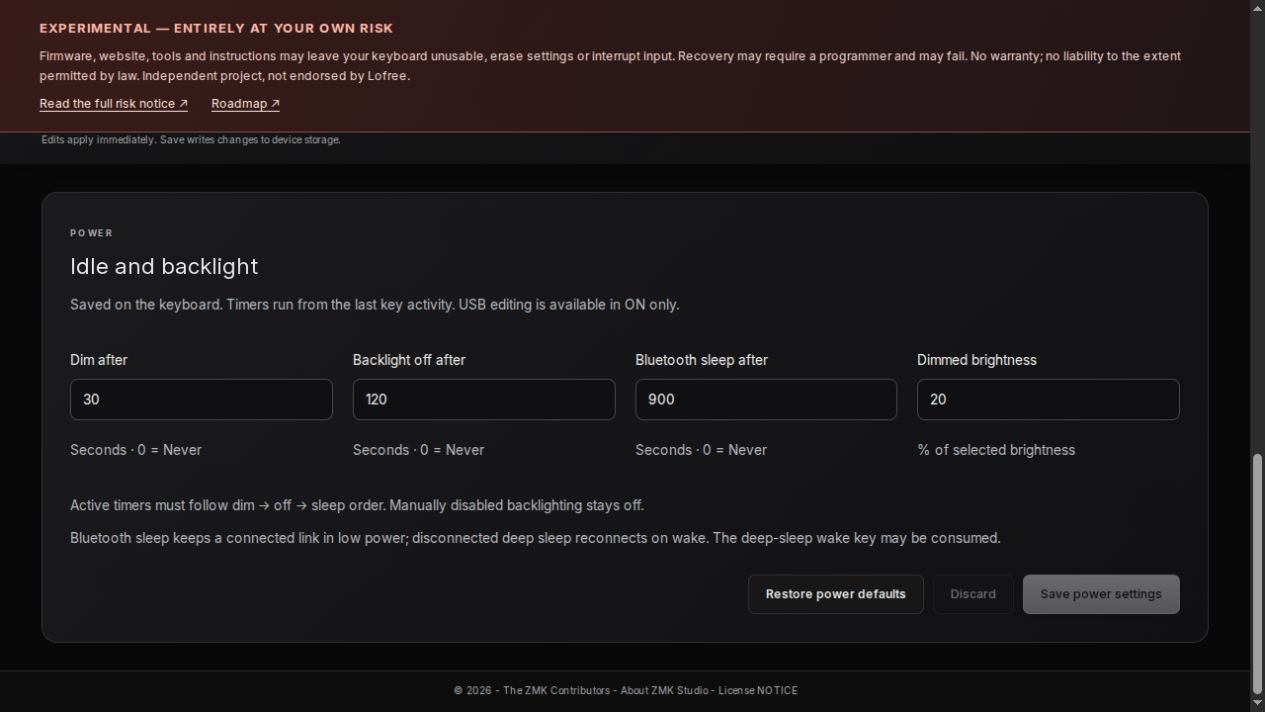
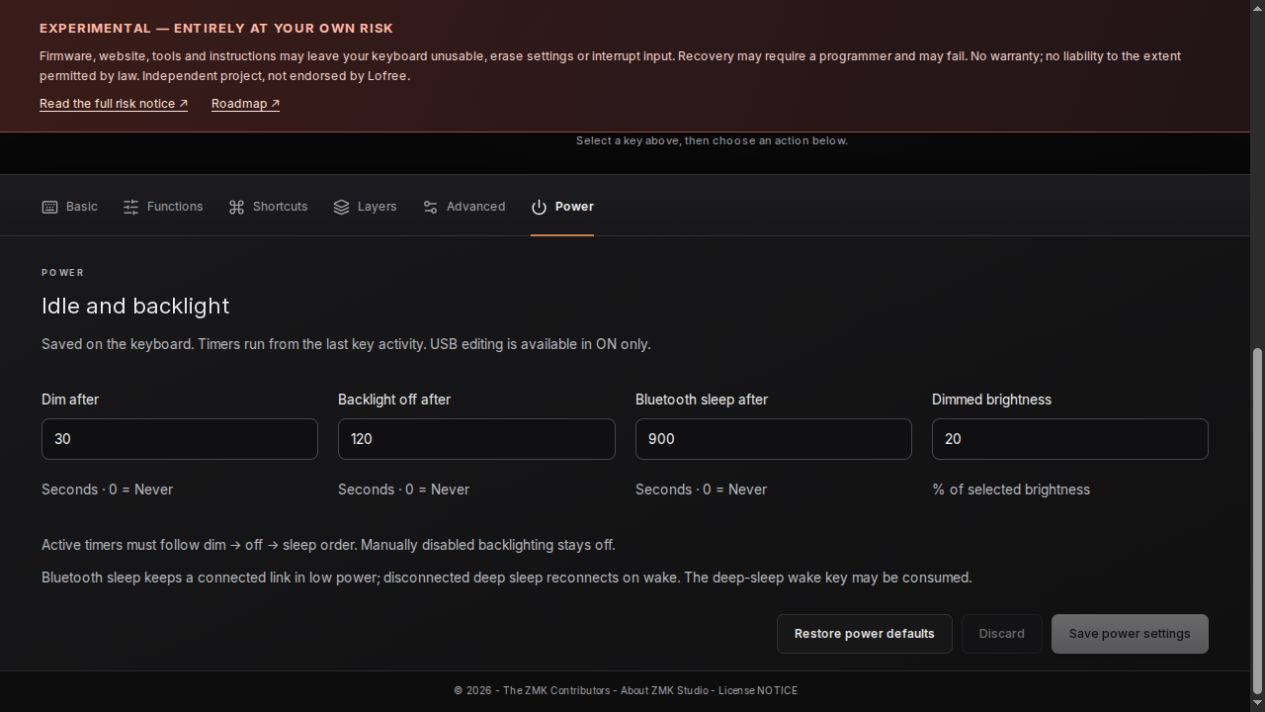
Place Power in Studio tabs and record hardware wake failure

diff --git a/web/studio-extension/EdgeWorkspace.tsx b/web/studio-extension/EdgeWorkspace.tsx
@@ -12,6 +12,7 @@ import {
   Command,
   Layers,
   Settings2,
+  Power,
   Search,
   Plus,
   ChevronRight,
@@ -63,6 +64,7 @@ const tabs = [
   ["Shortcuts", Command],
   ["Layers", Layers],
   ["Advanced", Settings2],
+  ["Power", Power],
 ] as const;
 const initialGeometry = PRINTED_KEYS.map((k) => ({
   ...k,
@@ -360,7 +362,7 @@ export function EdgeWorkspace(p: Props) {
                 id={`tab-${name}`}
                 role="tab"
                 aria-selected={category === name}
-                aria-controls="edge-action-panel"
+                aria-controls={name === "Power" ? "edge-power-panel" : "edge-action-panel"}
                 tabIndex={category === name ? 0 : -1}
                 onKeyDown={(e) => {
                   if (e.key === "ArrowLeft" || e.key === "ArrowRight") {
@@ -383,7 +385,7 @@ export function EdgeWorkspace(p: Props) {
               </button>
             ))}
           </div>
-          <label className="edge-search">
+          {category !== "Power" && <label className="edge-search">
             <Search size={15} />
             <input
               aria-label="Search actions"
@@ -396,9 +398,10 @@ export function EdgeWorkspace(p: Props) {
                 <X size={13} />
               </button>
             )}
-          </label>
+          </label>}
         </div>
         <div
+          hidden={category === "Power"}
           className="edge-action-body"
           role="tabpanel"
           id="edge-action-panel"
@@ -568,8 +571,16 @@ export function EdgeWorkspace(p: Props) {
                 "Edits apply immediately. Save writes changes to device storage."}
           </p>
         </div>
+        <div
+          hidden={category !== "Power"}
+          className="edge-action-body"
+          role="tabpanel"
+          id="edge-power-panel"
+          aria-labelledby="tab-Power"
+        >
+          <EdgePower ready={unlocked && !!map} busy={busy || externalBusy} />
+        </div>
       </section>
-      <EdgePower ready={unlocked && !!map} busy={busy || externalBusy} />
       <dialog
         ref={dialog}
         className="edge-dialog"

diff --git a/web/studio-extension/edge-studio.css b/web/studio-extension/edge-studio.css
@@ -1439,7 +1439,7 @@ dialog::backdrop {
 .edge-lock-overlay { padding-top: 175px; }
 @media(max-width:760px) { .edge-lock-overlay { padding-top: 240px; overflow: auto; } }
 
-.edge-power-panel { width:calc(100% - 84px); max-width:1236px; margin:28px auto; padding:28px; border:1px solid #303034; border-radius:16px; background:linear-gradient(135deg,#1b1b1e,#111113); }
+.edge-power-panel { width:100%; margin:0; padding:0; }
 .edge-power-panel h2 { font-size:1.4rem; margin:8px 0; }
 .edge-power-panel p,.edge-power-panel small { color:#b6b6bc; font-size:.85rem; margin:12px 0; }
 .edge-power-panel fieldset { border:0; padding:0; min-width:0; }
@@ -1447,5 +1447,3 @@ dialog::backdrop {
 .edge-power-grid label { display:flex; flex-direction:column; gap:8px; font-size:.85rem; }
 .edge-power-grid input { padding:10px 12px; border:1px solid #45454b; border-radius:8px; background:#101012; color:#eee; width:100%; }
 .edge-power-skeleton { min-height:90px; padding:24px; border-radius:8px; background:linear-gradient(90deg,#202024,#303034,#202024); }
-
-@media(max-width:640px) { .edge-power-panel { width:calc(100% - 32px); padding:20px; } }

diff --git a/tools/filter_edge_wake_metadata.py b/tools/filter_edge_wake_metadata.py
@@ -1,0 +1,43 @@
+# SPDX-License-Identifier: GPL-3.0-or-later
+"""Filter btmon stdin to timing/protocol metadata; never retain HID payloads or keys.
+
+No device commands are sent. Choose a private --output path outside the public
+repository. Run the capture on the actual Bluetooth host, not a USB-only bridge.
+"""
+import argparse
+import os
+from pathlib import Path
+import re
+import sys
+
+ALLOWED = re.compile(
+    r"^(?:[<>] (?:HCI (?:Event|Command)|ACL Data (?:RX|TX))\b|"
+    r"(?:ATT|L2CAP):|LE (?:Enhanced )?Connection Complete\b|"
+    r"LE Connection Update Complete\b|"
+    r"(?:Status|Reason|Handle|Connection handle|Connection interval|"
+    r"Connection latency|Supervision timeout|TX PHY|RX PHY):)"
+)
+
+
+def main():
+    parser = argparse.ArgumentParser(description=__doc__)
+    parser.add_argument("--output", type=Path, required=True)
+    args = parser.parse_args()
+    args.output.parent.mkdir(parents=True, exist_ok=True)
+    fd = os.open(args.output, os.O_WRONLY | os.O_CREAT | os.O_EXCL, 0o600)
+    print(f"Metadata-only capture: {args.output}", flush=True)
+    print("After sudo authentication, wait 30s; tap A once, wait 2s, tap A again. "
+          "Do not press other keys until the capture ends.", flush=True)
+    try:
+        with os.fdopen(fd, "w", buffering=1) as log:
+            for line in sys.stdin:
+                clean = re.sub(r"\x1b\[[0-9;]*m", "", line).strip()
+                if ALLOWED.match(clean):
+                    log.write(clean + "\n")
+                    print(clean, flush=True)
+    except KeyboardInterrupt:
+        pass
+
+
+if __name__ == "__main__":
+    main()

diff --git a/docs/validation/v0.1.0-alpha.3.md b/docs/validation/v0.1.0-alpha.3.md
@@ -2,21 +2,21 @@
 
 **Experimental firmware, website, tools and instructions are used entirely at your own risk.** Updates can leave the keyboard unusable or erase settings. Recovery may require external programming hardware and may fail. Retained stock and backups are not guarantees. [Full risk notice](../../RISK.md).
 
-This is an unreleased candidate. No hardware tests are recorded yet. Automated checks, including modeled sleep entry, do not prove physical wake or current draw. The installed accepted alpha.2 has not been changed.
+This is an unreleased candidate. ON checks pass, but Bluetooth idle wake has a reported first-key loss and delay; the candidate must not be accepted or published. Automated checks, including modeled sleep entry, do not prove physical wake or current draw. The owner installed this candidate as an unconfirmed trial.
 
 ## Candidate identity
 
 - Version: `0.1.0-alpha.3`
-- Commit and exact OTA SHA-256: record only after final clean build and preflight checks.
[1 lines of base64/hex data omitted]
 - Board/revision, host and test date: pending.
 - Power settings used for each test: record explicitly; proposed short test values are dim 2 s, off 4 s, sleep 10 s, relative brightness 20%.
 - Trial/acceptance: unconfirmed mode changes and deep wakes consume trial boots. Never bypass the guard. Initial testing must fit its budget; self-test and acceptance require the owner's separate explicit acknowledgment after baseline/recovery checks.
 
 ## Hardware gates
 
-- [ ] ON baseline: typing, Fn/media, backlight brightness/toggle, Caps fully on/off, Studio connect/unlock, saved mappings/layers intact.
+- [x] ON baseline: typing, Fn/media, backlight brightness/toggle, Caps fully on/off, Studio connect/unlock, saved mappings/layers intact.
 - [ ] Settings: read actual defaults/current values; save changed dim/off/sleep/relative-brightness values; verify readback and invalid ordering rejection.
-- [ ] ON lighting: dim then off at the configured deadlines; any physical activity restores selected brightness. A held key prevents dim/off. Manually disabled backlighting stays off after activity.
+- [x] ON lighting: dim then off at the configured deadlines; any physical activity restores selected brightness. A held key prevents dim/off. Manually disabled backlighting stays off after activity.
 - [ ] BT with cable: USB/Studio absent, saved bond reconnects, typing/media/indicators work; configured connected sleep wakes with the first press/release and no stuck modifiers.
 - [ ] BT on battery: repeated idle/suspend/wake; sample every row, both sides/modifiers and Fn. Cable insertion must not enable USB data or change endpoint policy.
 - [ ] Manual retained-stock return and reinstall of the same exact candidate; no recovery guarantee inferred.
@@ -33,3 +33,13 @@ This is an unreleased candidate. No hardware tests are recorded yet. Automated c
 Record successful logs against the exact candidate hash, including shared codec/policy tests, secured settings and storage fault/persistence tests, encrypted BLE with simulated RF-register loss, entry-race/held-key tests, USB-host suspend, BT/OFF deep-entry masks, boot guard, importer, diagnostic variant, UI failure/retry/locking/navigation, pre-reset/final stack margins, clean source/site/archive audits and hosted subpaths.
 
 The Python peripheral model supports retained suspend. It deliberately stops at deep entry; a manually reset model is not proof of electrical deep wake. Physical current and wake checks remain separate gates.
+
+## Current physical findings
+
+On 2026-11-01 the owner confirmed default values 30/120/900/20, saved test
+values 2/4/10/20, and all requested ON baseline/lighting checks. After ON→BT,
+idle wake takes about one second and the first brief key press is lost; a second
+press is needed. Whether the link disconnects is not yet established. Do not
+interpret the passing model as proof this hardware path works. No acceptance
+was performed. The owner has no current-measurement equipment; measurement and
+battery-life claims remain unavailable.

diff --git a/docs/status.md b/docs/status.md
@@ -1,20 +1,42 @@
-Power-management implementation is in progress on `firmware/power-management`.
-Canonical version is now unreleased `0.1.0-alpha.3`; alpha.2 remains installed.
-Studio Power supports device reads, dim/off/sleep timers, relative dim brightness,
-Never, validation, explicit save/readback, defaults/discard, old-firmware fallback,
-timeout/retry and dirty navigation guards. Isolated browser checks pass.
+# Power management — in progress
 
-The compiled prior alpha.3 integration passed secured settings/PWM/held-key/manual-off
-and reboot persistence; encrypted BLE suspend/pad wake x3 and all mode/legacy-output
-regressions passed with stack margins >=128 bytes. Additional checks passed for
-RF-register loss on suspend, a key racing with entry, USB-host suspend and BT/OFF deep
-entry. Storage fault-injection validation and full CI remain in progress. Deep wake/current are not modeled; physical hardware tests remain mandatory.
-The first trimmed stacks failed tests. An additional pre-reset peak check found
-Studio1712/1800 (84 spare); its allocation is now2048 with a16-entry behavior queue.
-Current build uses22316/22528 static RAM, with three profiles/layers.
-See [power management](power-management.md). No hardware writes performed.
+Branch `firmware/power-management`, draft [PR #12](https://github.com/jc-tanedo/lofree-edge-zmk/pull/12).
+Version `0.1.0-alpha.3` is unreleased. Firmware candidate SHA-256
[1 lines of base64/hex data omitted]
+was installed by the owner and remains an unconfirmed trial.
 
-# Current status
+**Hardware failure:** Bluetooth idle wake takes about one second and loses the
+first brief key press; a second press is required. Do not accept or publish this
+candidate. The encrypted peripheral model passes 18ms wake taps and does not
+reproduce the physical failure. Filtered owner-host Bluetooth timing is the next
+diagnostic step; the agent-side Bluetooth query does not expose the named device
+and cannot establish its connection state.
+
+Owner-confirmed ON checks pass: ordinary typing, media, Caps indicator,
+backlight, saved mappings/layers, Power defaults/read/save and configured
+2s/4s/10s/20% dim/off/restore, held-key inhibition and manual-off preservation.
+Power now uses the existing Studio tab bar. Its component stays mounted across
+tab changes so drafts and navigation protection remain intact. Both production
+bases compile; isolated browser tab/draft/guard checks pass. The frozen 8781
+hardware-test installer remains unchanged.
+
+Full local CI and [GitHub CI](https://github.com/jc-tanedo/lofree-edge-zmk/actions/runs/41305111518)
+passed for firmware commit `113357f9f9565ffa35fd0fb6f3ddf6282ef9cd8d`:
+secured settings, failed writes/corrupt/future schemas, PWM/manual-off/held keys,
+persistence, encrypted retained suspend with simulated RF loss, entry-race keys,
+USB-host suspend/resume, BT/OFF deep-entry setup, boot guard/import/diagnostic
+checks, both website bases and independent source/history/archive/site audits.
+Deep wake and current are not modeled. These green checks do not override the
+physical first-key failure. Studio has 332 bytes spare at its observed first-boot
+peak with a 2048-byte allocation; static RAM is 22316/22528, behavior queue 16,
+profiles/layers three. Earlier trimmed stack allocations were rejected by tests.
+
+The owner has no current-measurement equipment. Draw, battery improvements and
+the current-measurement release gate remain unverified. See
+[power management](power-management.md) and the [hardware record](validation/v0.1.0-alpha.3.md).
+No release, Pages deployment or acceptance has occurred.
+
+# Released alpha.2 baseline
 
 Physical-switch implementation is complete on `firmware/physical-mode-switch`,
 Merged PR #10 / closed issue #3. Exact alpha.2 OTA SHA-256
